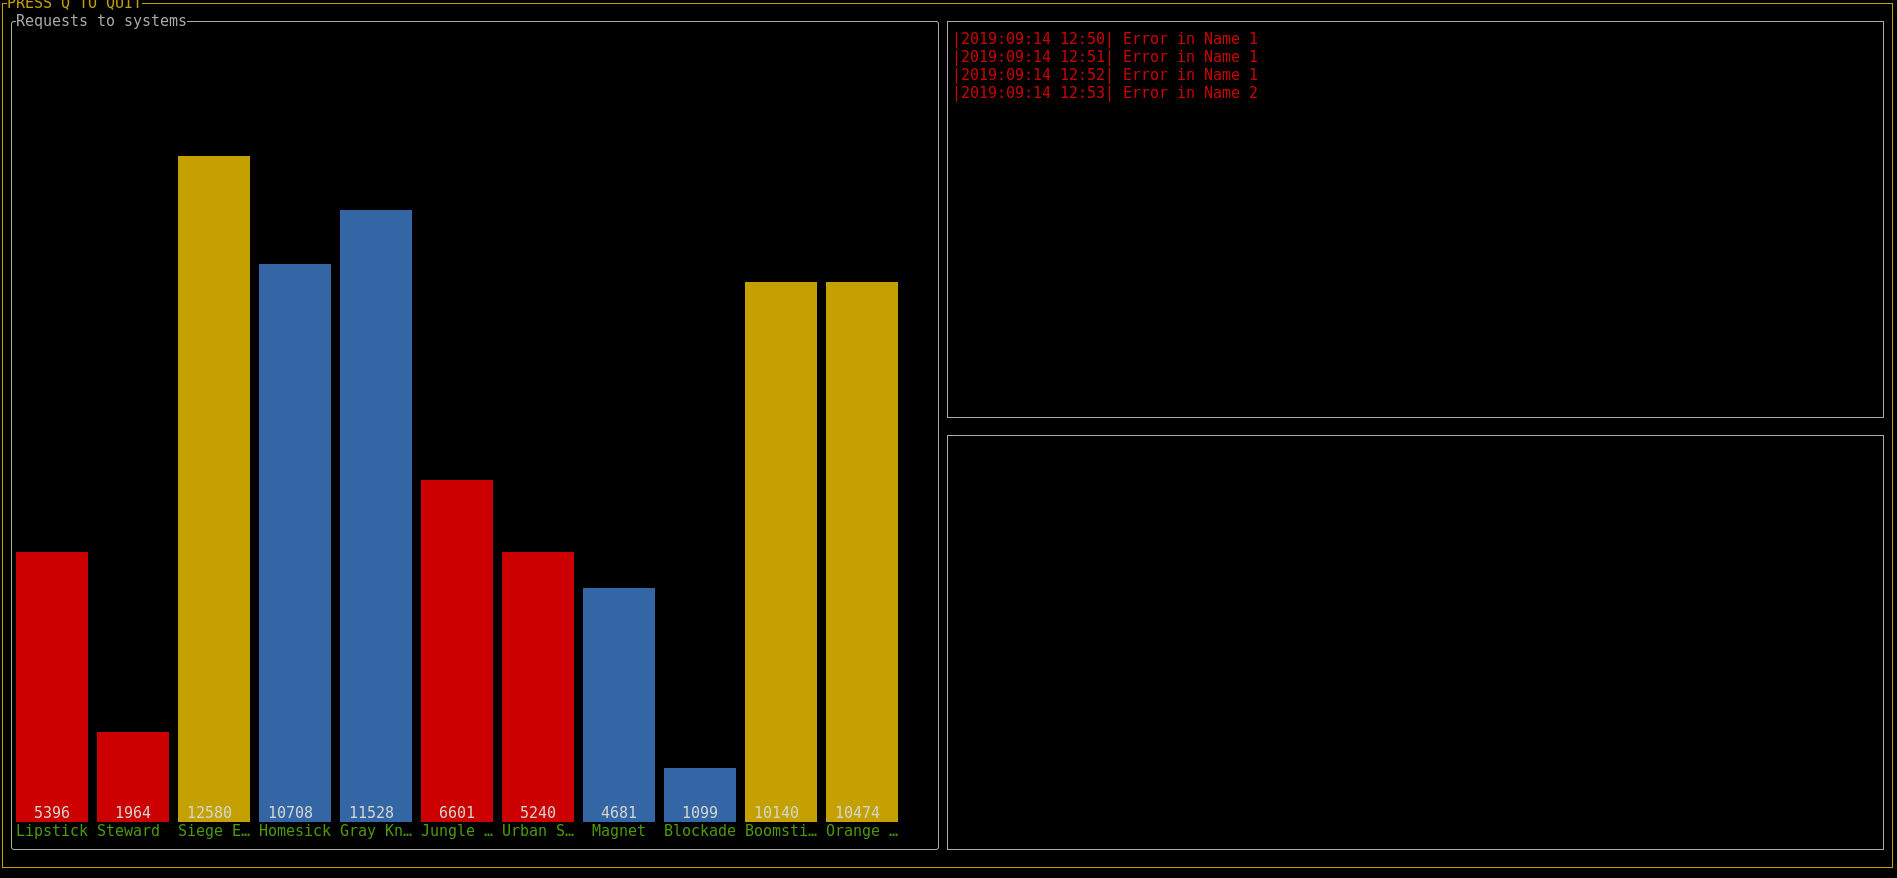
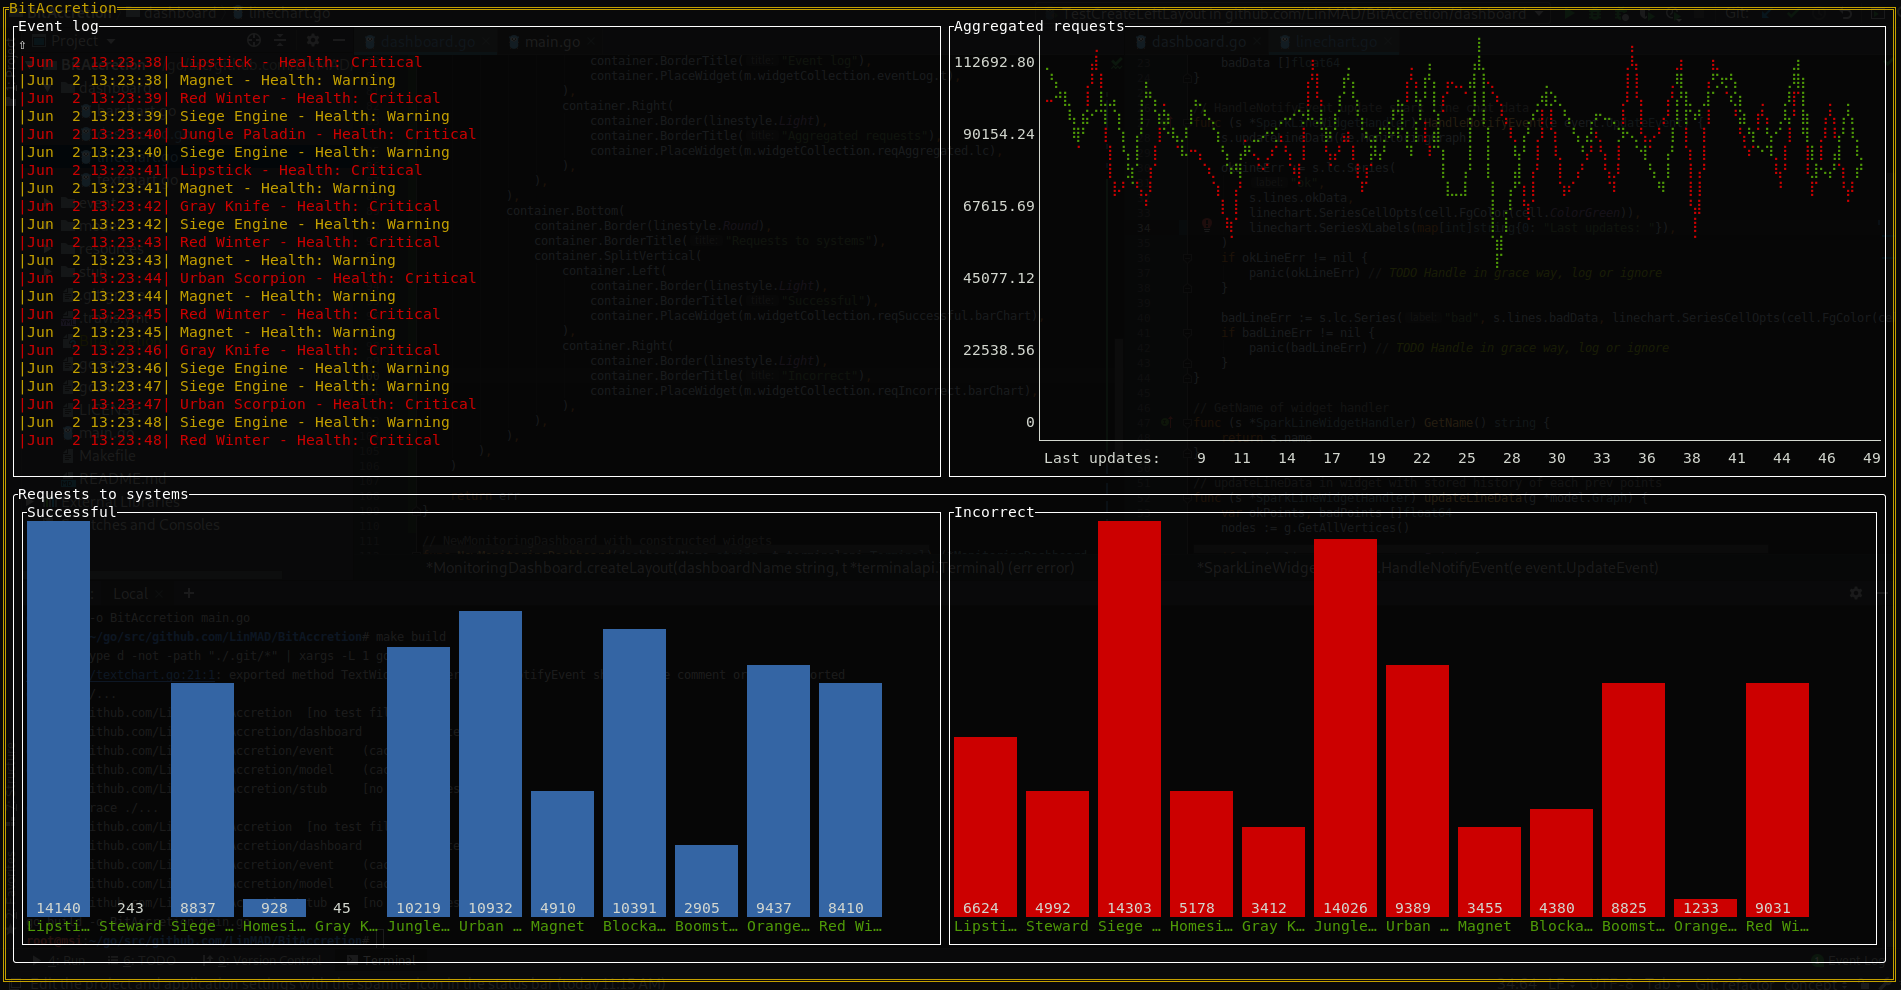
Add clock widget

diff --git a/dashboard/dashboard.go b/dashboard/dashboard.go
@@ -18,10 +18,11 @@ type MonitoringDashboard struct {
 
 // widgets of dashboard
 type widgets struct {
-	reqSuccessful *BarchartWidgetHandler
-	reqIncorrect  *BarchartWidgetHandler
+	reqSuccessful *BarWidgetHandler
+	reqIncorrect  *BarWidgetHandler
 	reqAggregated *SparkLineWidgetHandler
 	eventLog      *TextWidgetHandler
+	clock         *ClockWidgetHandler
 }
 
 // HandleNotifyEvent send update to monitoring dashboard
@@ -55,8 +56,12 @@ func (m *MonitoringDashboard) initWidgets() (err error) {
 	if err != nil {
 		return err
 	}
+	m.widgetCollection.clock, err = NewClockWidget()
+	if err != nil {
+		return err
+	}
 
-	// Register widgets
+	// Register widgets to be observable for graph updates
 	m.observer.RegisterNewSubscriber(m.widgetCollection.reqSuccessful)
 	m.observer.RegisterNewSubscriber(m.widgetCollection.reqIncorrect)
 	m.observer.RegisterNewSubscriber(m.widgetCollection.reqAggregated)
@@ -65,7 +70,7 @@ func (m *MonitoringDashboard) initWidgets() (err error) {
 	return nil
 }
 
-// createLayout for dashboard and palce widgets
+// createLayout for dashboard and place widgets
 func (m *MonitoringDashboard) createLayout(dashboardName string, t *terminalapi.Terminal) (err error) {
 	m.TerminalContainer, err = container.New(
 		*t,
@@ -75,9 +80,17 @@ func (m *MonitoringDashboard) createLayout(dashboardName string, t *terminalapi.
 			container.Top(
 				container.SplitVertical(
 					container.Left(
-						container.Border(linestyle.Light),
-						container.BorderTitle("Event log"),
-						container.PlaceWidget(m.widgetCollection.eventLog.t),
+						container.SplitHorizontal(
+							container.Top(
+								container.Border(linestyle.Round),
+								container.PlaceWidget(m.widgetCollection.clock.sdClock),
+							),
+							container.Bottom(
+								container.Border(linestyle.Double),
+								container.BorderTitle("Event log"),
+								container.PlaceWidget(m.widgetCollection.eventLog.t),
+							),
+						),
 					),
 					container.Right(
 						container.Border(linestyle.Light),

diff --git a/dashboard/bar.go b/dashboard/bar.go
@@ -7,15 +7,15 @@ import (
 	"github.com/mum4k/termdash/widgets/barchart"
 )
 
-// BarchartWidgetHandler for dashboard
-type BarchartWidgetHandler struct {
+// BarWidgetHandler for dashboard
+type BarWidgetHandler struct {
 	name                  string
 	isOkRequestsToCollect bool
 	barChart              *barchart.BarChart
 }
 
 // HandleNotifyEvent update bar chat data
-func (bw *BarchartWidgetHandler) HandleNotifyEvent(e event.UpdateEvent) {
+func (bw *BarWidgetHandler) HandleNotifyEvent(e event.UpdateEvent) {
 	var max int
 
 	vertices := e.MonitoringGraph.GetAllVertices()
@@ -42,12 +42,12 @@ func (bw *BarchartWidgetHandler) HandleNotifyEvent(e event.UpdateEvent) {
 }
 
 // GetName of widget handler
-func (bw *BarchartWidgetHandler) GetName() string {
+func (bw *BarWidgetHandler) GetName() string {
 	return bw.name
 }
 
 // getMaxRequestValue max value from vertices
-func (bw *BarchartWidgetHandler) getMaxRequestValue(isErrorsReqs bool, g *model.Graph) (max int) {
+func (bw *BarWidgetHandler) getMaxRequestValue(isErrorsReqs bool, g *model.Graph) (max int) {
 	allVertices := g.GetAllVertices()
 
 	for i := 0; i < len(allVertices); i++ {
@@ -68,7 +68,7 @@ func (bw *BarchartWidgetHandler) getMaxRequestValue(isErrorsReqs bool, g *model.
 }
 
 // NewBarWidget creates and returns prepared widget
-func NewBarWidget(name string, barColor cell.Color, isOkReqs bool, nodes []model.Node) (*BarchartWidgetHandler, error) {
+func NewBarWidget(name string, barColor cell.Color, isOkReqs bool, nodes []model.Node) (*BarWidgetHandler, error) {
 	sysCount := len(nodes)
 	sysNames := make([]string, sysCount)
 	sysBarColors := make([]cell.Color, sysCount)
@@ -90,7 +90,7 @@ func NewBarWidget(name string, barColor cell.Color, isOkReqs bool, nodes []model
 		return nil, sysBarErr
 	}
 
-	widget := &BarchartWidgetHandler{
+	widget := &BarWidgetHandler{
 		name:                  name,
 		barChart:              sysBar,
 		isOkRequestsToCollect: isOkReqs,

diff --git a/dashboard/text.go b/dashboard/text.go
@@ -18,6 +18,7 @@ type TextWidgetHandler struct {
 	historyCounter int8
 }
 
+// HandleNotifyEvent write to text widget
 func (txt *TextWidgetHandler) HandleNotifyEvent(e event.UpdateEvent) {
 	// TODO Use one more function from TextWidgetHandler struct to have different event writers not only for graph
 
@@ -38,29 +39,45 @@ func (txt *TextWidgetHandler) HandleNotifyEvent(e event.UpdateEvent) {
 		}
 	}
 
-	if txt.historyCounter >= maxTextHistory {
-		txt.historyCounter = 0
-		txt.t.Reset()
-	}
+	txt.handleHistory()
 
 	for h, msg := range healthMsgList {
-		var writeErr error
+		var termColor cell.Color
 
-		if h == model.HealthCritical {
-			writeErr = txt.t.Write(msg, text.WriteCellOpts(cell.FgColor(cell.ColorRed)))
-		} else if h == model.HealthWarning {
-			writeErr = txt.t.Write(msg, text.WriteCellOpts(cell.FgColor(cell.ColorYellow)))
+		switch h {
+		case model.HealthCritical:
+			termColor = cell.ColorRed
+		case model.HealthWarning:
+			termColor = cell.ColorYellow
+		default:
+			termColor = cell.ColorWhite
 		}
 
-		if writeErr != nil {
-			panic(writeErr) // TODO Handle in grace way, log or ignore
-		}
+		txt.WriteToEventLog(msg, termColor)
 	}
 }
 
 // GetName of widget handler
 func (txt *TextWidgetHandler) GetName() string {
 	return txt.name
+}
+
+// WriteToEventLog display message with color in widget
+func (txt *TextWidgetHandler) WriteToEventLog(msg string, color cell.Color) {
+	writeErr := txt.t.Write(msg, text.WriteCellOpts(cell.FgColor(color)))
+	if writeErr != nil {
+		panic(writeErr) // TODO Think how to handle that issue, worst case scenario
+	}
+}
+
+// handleHistory of logged messages
+func (txt *TextWidgetHandler) handleHistory() {
+	if txt.historyCounter <= maxTextHistory {
+		return
+	}
+
+	txt.historyCounter = 0
+	txt.t.Reset()
 }
 
 // NewTextWidget creates and returns prepared widget

diff --git a/dashboard/clock.go b/dashboard/clock.go
@@ -1,0 +1,58 @@
+package dashboard
+
+import (
+	"github.com/mum4k/termdash/cell"
+	"github.com/mum4k/termdash/widgets/segmentdisplay"
+	"strings"
+	"time"
+)
+
+// ClockWidgetHandler for dashboard
+type ClockWidgetHandler struct {
+	sdClock *segmentdisplay.SegmentDisplay
+}
+
+// runClock execute sdClock update
+func (c *ClockWidgetHandler) runClock() {
+	ticker := time.NewTicker(1 * time.Second)
+	defer ticker.Stop()
+
+	for {
+		select {
+		case <-ticker.C:
+			now := time.Now()
+			nowStr := now.Format("15:04:05")
+			parts := strings.Split(nowStr, ":")
+
+			spacer := " "
+			if now.Second()%2 == 0 {
+				spacer = ":"
+			}
+
+			chunks := []*segmentdisplay.TextChunk{
+				segmentdisplay.NewChunk(parts[0], segmentdisplay.WriteCellOpts(cell.FgColor(cell.ColorWhite))),
+				segmentdisplay.NewChunk(spacer, segmentdisplay.WriteCellOpts(cell.FgColor(cell.ColorYellow))),
+				segmentdisplay.NewChunk(parts[1], segmentdisplay.WriteCellOpts(cell.FgColor(cell.ColorWhite))),
+				segmentdisplay.NewChunk(spacer, segmentdisplay.WriteCellOpts(cell.FgColor(cell.ColorYellow))),
+				segmentdisplay.NewChunk(parts[2], segmentdisplay.WriteCellOpts(cell.FgColor(cell.ColorWhite))),
+			}
+
+			if err := c.sdClock.Write(chunks); err != nil {
+				panic(err) // TODO Handle in grace way, log or ignore
+			}
+		}
+	}
+}
+
+// NewClockWidget creates and returns prepared widget
+func NewClockWidget() (*ClockWidgetHandler, error) {
+	c, err := segmentdisplay.New()
+	if err != nil {
+		return nil, err
+	}
+
+	cwh := &ClockWidgetHandler{sdClock: c}
+	go cwh.runClock()
+
+	return cwh, nil
+}
